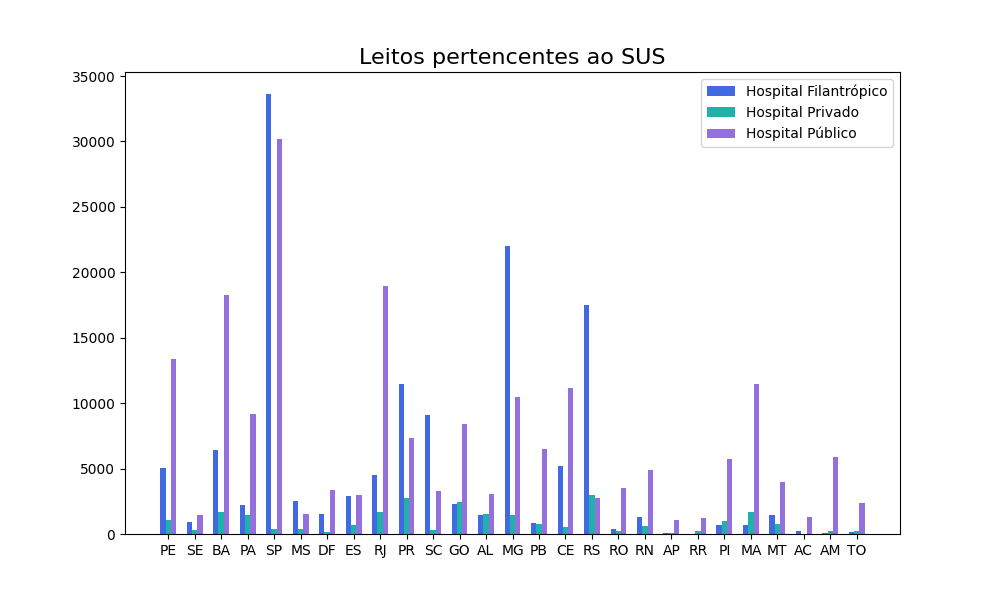
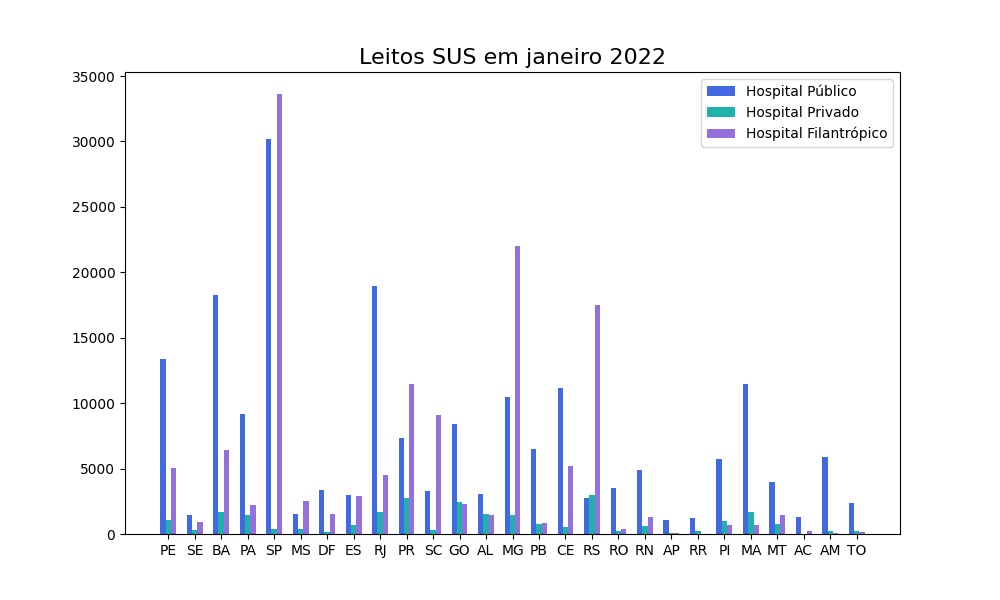
Adicionei tratamento de exceções nas funções

diff --git a/graph_bar_SUS.py b/graph_bar_SUS.py
@@ -12,25 +12,54 @@ import numpy as np
 import pandas as pd
 from typing import Optional
 
-# TODO adicionar tratamento de exceção, adicionar testes, adicionar docstring, adicionar a análise estatística
+# TODO adicionar tratamento de exceção, adicionar testes, adicionar docstring
 
 # Função recebe o df e retorna a mediana do tipo hospital requisitado
 def median_SUS(df: pd.DataFrame, tipo_hospital: str) -> float:
-    return df[tipo_hospital].median()
+    try:
+        return df[tipo_hospital].median()
+    except TypeError:
+        print("Argumentos inadequados")
+    except KeyError:
+        print("Chave fora da formatação necessária")
+    except:
+        print("Erro desconhecido")
+
 
 # Função recebe o df e retorna a média do tipo hospital requisitado
 def mean_SUS(df: pd.DataFrame, tipo_hospital: str) -> float:
-    return df[tipo_hospital].mean()
+    try:
+        return df[tipo_hospital].mean()
+    except TypeError:
+        print("Argumentos inadequados")
+    except KeyError:
+        print("Chave fora da formatação necessária")
+    except:
+        print("Erro desconhecido")
 
 # Função recebe o df e retorna o desvio padrão do tipo hospital requisitado
 def std_SUS(df: pd.DataFrame, tipo_hospital: str) -> float:
-    return df[tipo_hospital].std()
+    try:
+        return df[tipo_hospital].std()
+    except TypeError:
+        print("Argumentos inadequados")
+    except KeyError:
+        print("Chave fora da formatação necessária")
+    except:
+        print("Erro desconhecido")
 
 # Função recebe o df e retorna o máximo e mínimo do tipo hospital requisitado
 def max_min_SUS(df: pd.DataFrame, tipo_hospital: str) -> tuple:
-    min = df[tipo_hospital].min()
-    max = df[tipo_hospital].max()
-    return min, max
+    try:
+        min = df[tipo_hospital].min()
+        max = df[tipo_hospital].max()
+        return min, max
+    except TypeError:
+        print("Argumentos inadequados")
+    except KeyError:
+        print("Chave fora da formatação necessária")
+    except:
+        print("Erro desconhecido")
 
 # Função recebe o df e as colunas que serão as barras agrupadas 
 def graph_SUS(df: pd.DataFrame, 
@@ -39,30 +68,35 @@ def graph_SUS(df: pd.DataFrame,
               image_graph_name: Optional[str] = "graph_SUS", 
               width: Optional[str] = 0.2, 
               colors: Optional[list] = ['royalblue', 'lightseagreen', 'mediumpurple']) -> None:
-    # Definido o eixo x como os registros da tabela
-    x = np.arange(len(df))
+    try:
+        # Definido o eixo x como os registros da tabela   
+        x = np.arange(len(df))
 
-    # Atribuindo as colunas as suas respectivas barras
-    bar1 = df[y1]
-    bar2 = df[y2]
-    bar3 = df[y3]
+        # Atribuindo as colunas as suas respectivas barras
+        bar1 = df[y1]
+        bar2 = df[y2]
+        bar3 = df[y3]
 
-    # Título, legenda e ticks 
-    legend = [y1, y2, y3]
-    plt.legend(legend) 
-    plt.figure(figsize = (10, 6))
-    plt.title(title, fontsize = 16)
-    plt.xticks(x, df["Estado"]) 
-    
-    # Plotando as barras
-    plt.bar(x - width, bar1, width, color=colors[0])
-    plt.bar(x, bar2, width, color=colors[1])
-    plt.bar(x + width, bar3, width, color=colors[2])
-    
-    plt.savefig(f"graphs/{image_graph_name}")
-    plt.show()
-
-print(type(median_SUS(df_formatado, "Hospital Público")))
-print(type(mean_SUS(df_formatado, "Hospital Público")))
-print(type(std_SUS(df_formatado, "Hospital Público")))
-print(type(max_min_SUS(df_formatado, "Hospital Público")))
+        # Título, tamanho e ticks 
+        plt.figure(figsize = (10, 6))
+        plt.title(title, fontsize = 16)
+        plt.xticks(x, df["Estado"]) 
+            
+        # Plotando as barras
+        plt.bar(x - width, bar1, width, color=colors[0])
+        plt.bar(x, bar2, width, color=colors[1])
+        plt.bar(x + width, bar3, width, color=colors[2])
+            
+        # Adcicionando a legenda    
+        legend = [y1, y2, y3]
+        plt.legend(legend) 
+            
+        plt.savefig(f"graphs/{image_graph_name}")
+        plt.show()
+        
+    except KeyError:
+        print("Chave fora da formatação necessária")
+    except TypeError:
+        print("DataFrame inserido não válido")
+    except:
+        print("Erro desconhecido")
